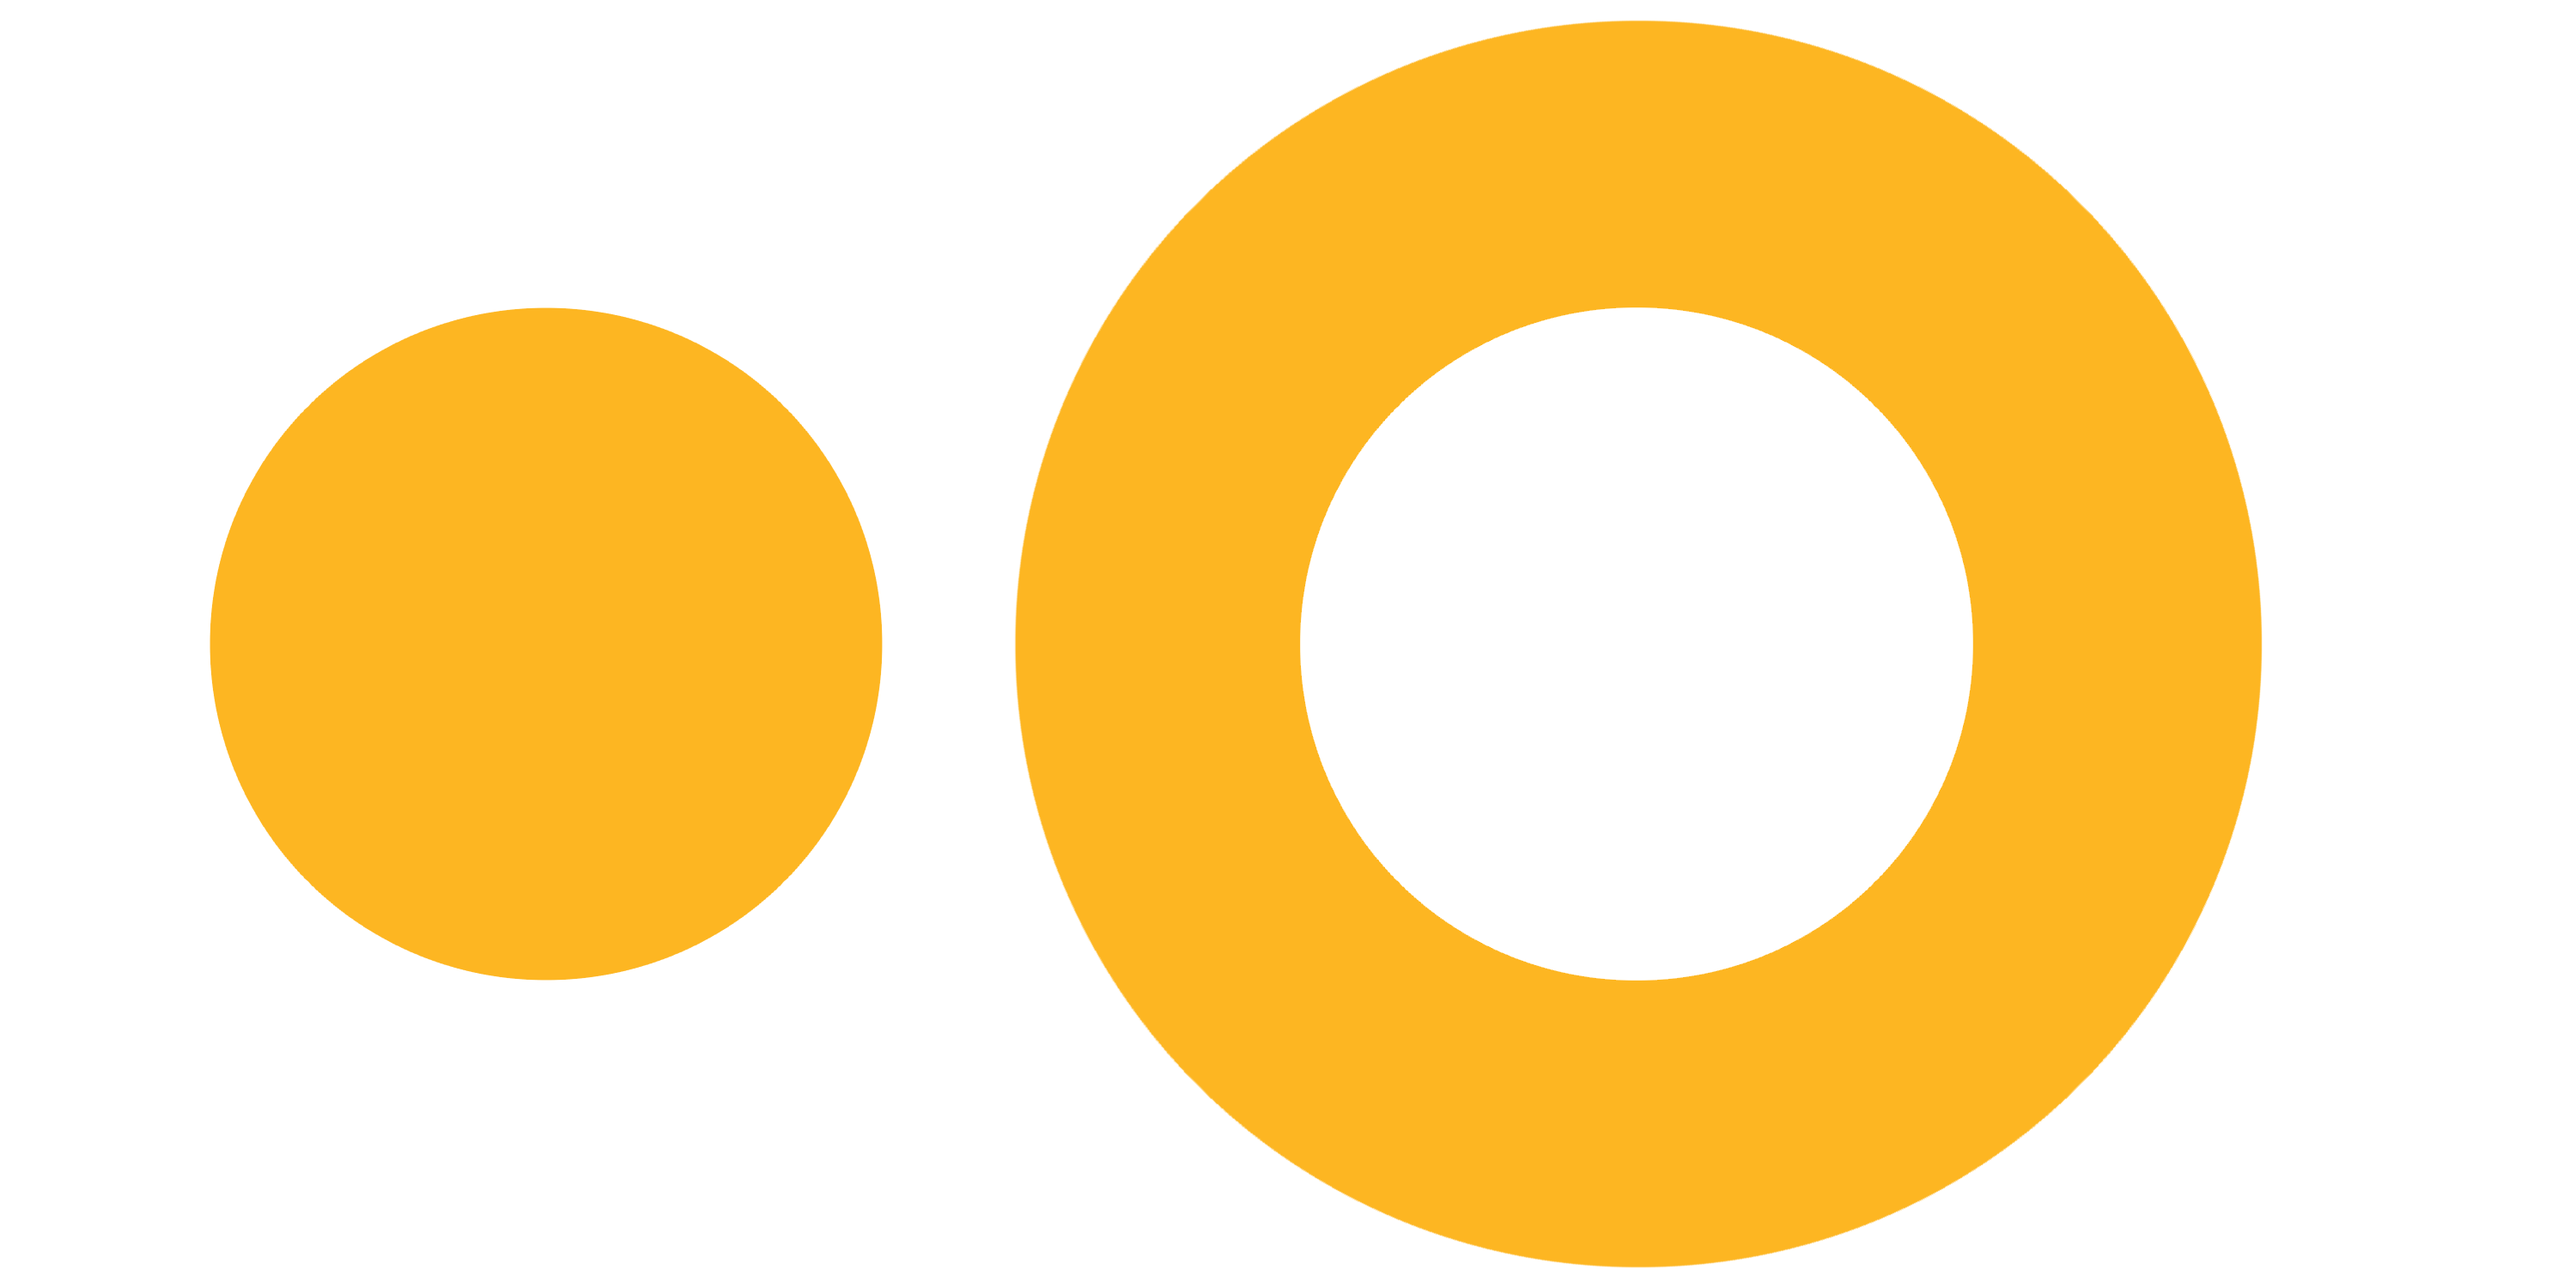
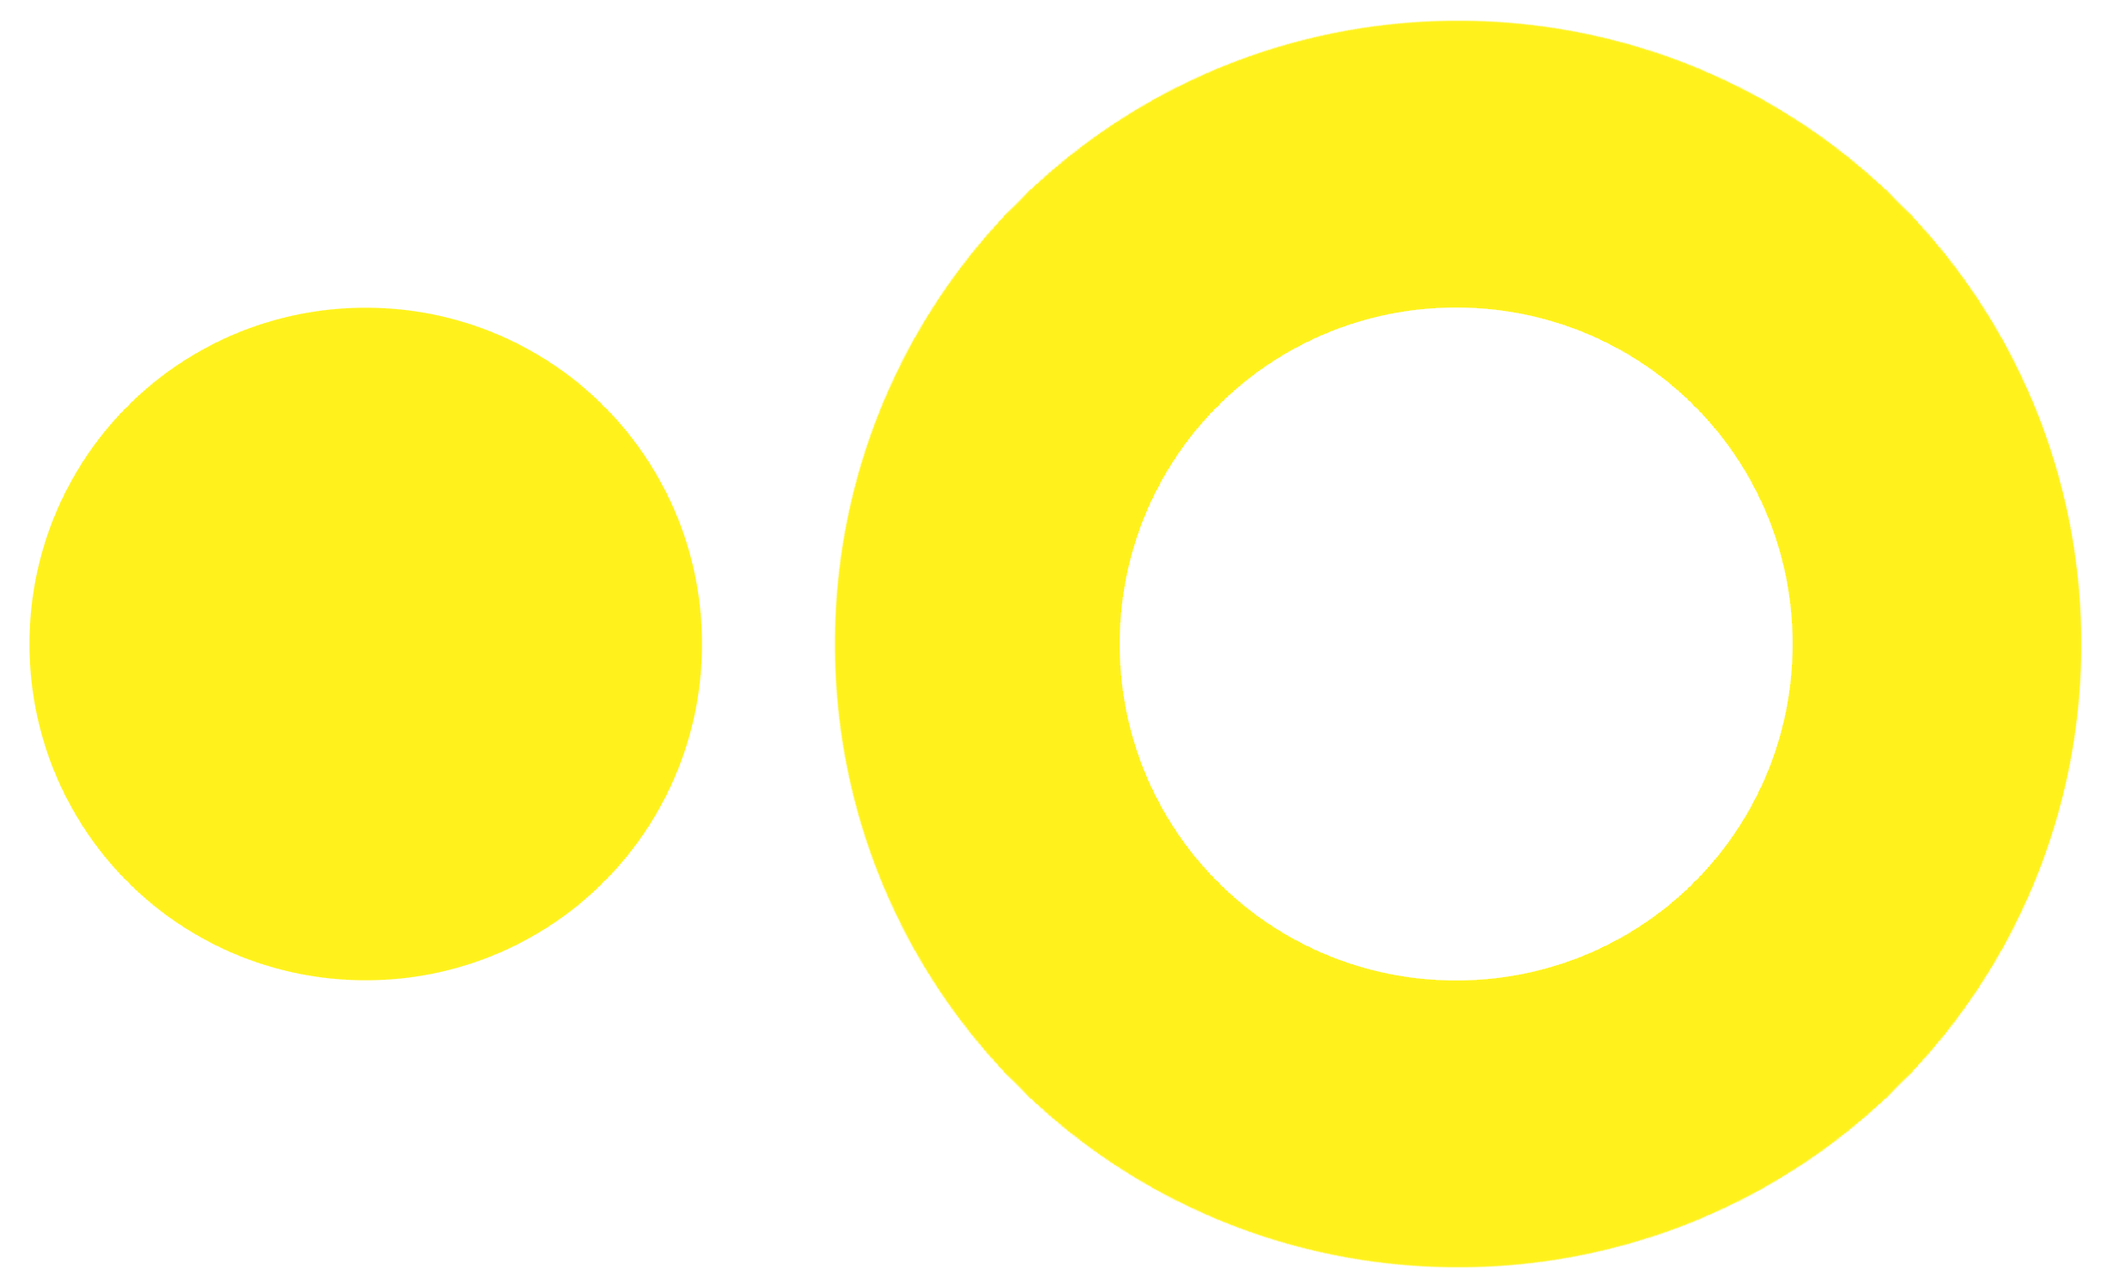
Portfolio

diff --git a/CSS/style.css b/CSS/style.css
@@ -21,6 +21,11 @@ header{
     flex-direction: row;
     justify-content: center;
     align-items: center;
+
+    position: fixed;
+    top:0;
+    left: 0;
+    z-index: 99999999;
 }
 
 .portfolio{
@@ -72,10 +77,11 @@ header{
 }
 
 .menu ul li a:hover{
-    border-bottom: 3px solid #fdb622;
+    border-bottom: 3px solid #fff21c;
 }
 
-.profile-1{
+.profile{
+    margin-top: 10vh;
     width: 100%;
     height: 90vh;
 
@@ -130,16 +136,14 @@ header{
     font-size: 20px;
     letter-spacing: 2px;
     padding: 5px;
-    background-color: #fdb622;
+    background-color: #fff21c;
     text-align: center;
 }
-
-
 
 .profile-picture{
     width: 70%;
     height: 100%;
-    background: linear-gradient(to right, #171717 50%, #fdb622 50%);
+    background: linear-gradient(to right, #171717 50%, #fff21c 50%);
 
     display: -webkit-box;
     display: -moz-box;
@@ -157,3 +161,26 @@ header{
     background-size: cover;
     overflow: hidden;
 }
+
+.about{
+    background-color: #ececec;
+}
+
+.about-wrap{
+    width: 100%;
+    height: 90vh;
+    display: -webkit-box;
+    display: -moz-box;
+    display: -ms-flexbox;
+    display: -webkit-flex;
+    display: flex;
+
+    justify-content: center;
+    align-items: center;  
+}
+
+.about-picture{
+    width: 50%;
+}
+
+

diff --git a/index.html b/index.html
@@ -18,7 +18,7 @@
             <nav class="menu-desktop">
                 <ul>
                     <li><a href="index.html">HOME</a></li>
-                    <li><a href="">ABOUT</a></li>
+                    <li><a href="#about">ABOUT</a></li>
                     <li><a href="">PROJECTS</a></li>
                     <li><a href="">CONTACT</a></li>
                 </ul>
@@ -34,7 +34,7 @@
         </div>
     </header>
 
-    <section class="profile-1">
+    <section class="profile">
         <div class="textbox">
             <img src="Images/circle-texture.png" />
 
@@ -48,6 +48,16 @@
             <img src="Images/profile-1.png" />
         </div>        
     </section>
+
+    <section id="about" class="about">
+        <div class="container">
+            <div class="about-wrap">
+                <div class="about-picture"></div>
+            </div>
+        </div>
+    </section>
+
+
     
 </body>
 </html>
